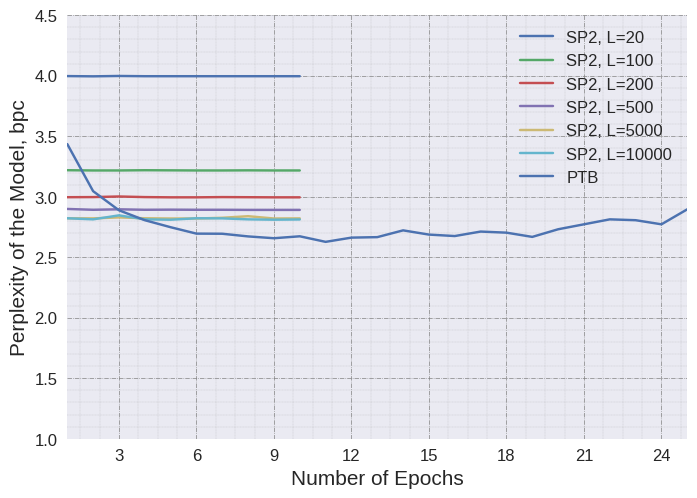
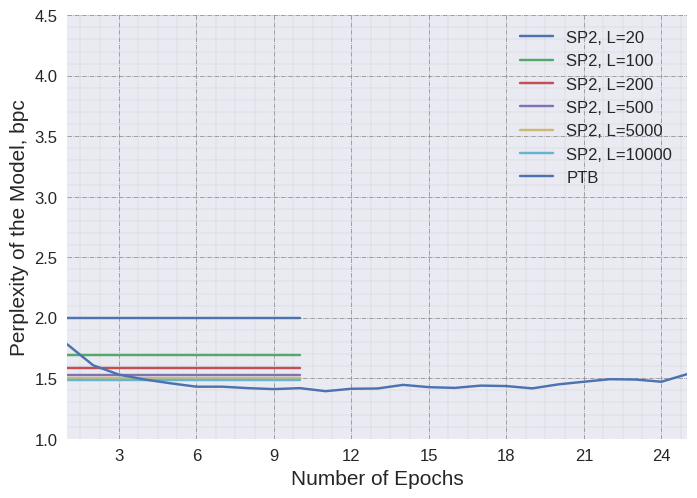
up

diff --git a/plot_spk_span.py b/plot_spk_span.py
@@ -65,23 +65,23 @@ from matplotlib.figure import Figure
 # y6 = np.array([1.600,1.603,1.544,1.604,1.595,1.583,1.569,1.555,1.576,1.525,1.525,1.502,1.502,1.509,1.484,1.469,1.467,1.453,1.451,1.442])
 # y7 = np.array([3.395,2.786,2.438,2.185,1.995,1.889,1.802,1.750,1.708,1.660,1.629,1.597,1.575,1.562,1.532,1.520,1.511,1.494,1.484,1.472,1.462,1.447,1.434,1.428,1.418,1.412,1.405,1.398,1.394,1.388,1.380,1.372,1.360,1.360,1.356,1.349,1.343,1.336,1.339,1.330,1.327,1.325,1.320,1.318,1.316,1.311,1.309,1.309,1.310,1.301])
 
-# # Transformer-XL
-# y1 = np.array([1.596,1.594,1.594,1.593,1.596,1.593,1.594,1.594,1.594,1.594])
-# y2 = np.array([1.422,1.422,1.422,1.422,1.422,1.422,1.422,1.422,1.422,1.422])
-# y3 = np.array([1.391,1.381,1.381,1.381,1.381,1.381,1.381,1.381,1.381,1.381])
-# y4 = np.array([1.320,1.320,1.320,1.320,1.320,1.320,1.320,1.320,1.320,1.320])
-# y5 = np.array([1.315,1.315,1.315,1.315,1.315,1.315,1.315,1.315,1.315,1.315])
-# y6 = np.array([1.310,1.310,1.310,1.310,1.310,1.310,1.310,1.310,1.310,1.310])
-# y7 = np.array([2.03737,1.78536,1.68342,1.62017,1.58123,1.54640,1.51815,1.49652,1.48271,1.47021,1.45360,1.45414,1.44045,1.42687,1.43907,1.41865,1.41513,1.40777,1.39542,1.39670,1.41069,1.39256,1.39808,1.38736,1.39524,1.40657,1.38937,1.40214,1.39485,1.38843,1.38908,1.39172,1.38764,1.39171,1.39544,1.39460,1.40500,1.40674,1.41126,1.41762,1.41199,1.38509,1.40777,1.38842,1.41132,1.40277,1.39586,1.39956,1.43733,1.42642])
+# Transformer-XL
+y1 = np.array([1.596,1.594,1.594,1.593,1.596,1.593,1.594,1.594,1.594,1.594])
+y2 = np.array([1.422,1.422,1.422,1.422,1.422,1.422,1.422,1.422,1.422,1.422])
+y3 = np.array([1.391,1.381,1.381,1.381,1.381,1.381,1.381,1.381,1.381,1.381])
+y4 = np.array([1.320,1.320,1.320,1.320,1.320,1.320,1.320,1.320,1.320,1.320])
+y5 = np.array([1.315,1.315,1.315,1.315,1.315,1.315,1.315,1.315,1.315,1.315])
+y6 = np.array([1.310,1.310,1.310,1.310,1.310,1.310,1.310,1.310,1.310,1.310])
+y7 = np.array([2.03737,1.78536,1.68342,1.62017,1.58123,1.54640,1.51815,1.49652,1.48271,1.47021,1.45360,1.45414,1.44045,1.42687,1.43907,1.41865,1.41513,1.40777,1.39542,1.39670,1.41069,1.39256,1.39808,1.38736,1.39524,1.40657,1.38937,1.40214,1.39485,1.38843,1.38908,1.39172,1.38764,1.39171,1.39544,1.39460,1.40500,1.40674,1.41126,1.41762,1.41199,1.38509,1.40777,1.38842,1.41132,1.40277,1.39586,1.39956,1.43733,1.42642])
 
-# Transformer-XL Large
-y1 = np.array([1.998,1.998,1.998,1.998,1.998,1.998,1.998,1.998,1.998,1.998])
-y2 = np.array([1.688,1.688,1.688,1.688,1.688,1.688,1.688,1.688,1.688,1.688])
-y3 = np.array([1.587,1.587,1.587,1.587,1.587,1.587,1.587,1.587,1.587,1.587])
-y4 = np.array([1.529,1.529,1.529,1.529,1.529,1.529,1.529,1.529,1.529,1.529])
-y5 = np.array([1.500,1.500,1.500,1.500,1.500,1.500,1.500,1.500,1.500,1.500])
-y6 = np.array([1.486,1.486,1.486,1.486,1.486,1.486,1.486,1.486,1.486,1.486])
-y7 = np.array([1.780,1.607,1.530,1.489,1.458,1.430,1.430,1.418,1.410,1.418,1.393,1.413,1.415,1.445,1.426,1.420,1.439,1.435,1.416,1.449,1.471,1.492,1.489,1.471,1.534])
+# # Transformer-XL Large
+# y1 = np.array([1.998,1.998,1.998,1.998,1.998,1.998,1.998,1.998,1.998,1.998])
+# y2 = np.array([1.688,1.688,1.688,1.688,1.688,1.688,1.688,1.688,1.688,1.688])
+# y3 = np.array([1.587,1.587,1.587,1.587,1.587,1.587,1.587,1.587,1.587,1.587])
+# y4 = np.array([1.529,1.529,1.529,1.529,1.529,1.529,1.529,1.529,1.529,1.529])
+# y5 = np.array([1.500,1.500,1.500,1.500,1.500,1.500,1.500,1.500,1.500,1.500])
+# y6 = np.array([1.486,1.486,1.486,1.486,1.486,1.486,1.486,1.486,1.486,1.486])
+# y7 = np.array([1.780,1.607,1.530,1.489,1.458,1.430,1.430,1.418,1.410,1.418,1.393,1.413,1.415,1.445,1.426,1.420,1.439,1.435,1.416,1.449,1.471,1.492,1.489,1.471,1.534])
 
 with plt.style.context(('seaborn')):
     # plt.plot(np.arange(1,len(y1)+1), y1, label='Long Short-Term Memory')
@@ -109,5 +109,5 @@ with plt.style.context(('seaborn')):
     lgd = plt.legend(loc='upper right', shadow=True, fancybox=True, numpoints=1, prop={'size': 12})
     ax = plt.gca()
     ax.xaxis.set_major_locator(MaxNLocator(integer=True))
-    plt.savefig('perplexity_Transformer-XL_41M', bbox_extra_artists=(lgd,), bbox_inches='tight')
+    plt.savefig('perplexity_Transformer-XL_14M', bbox_extra_artists=(lgd,), bbox_inches='tight')
     plt.show()
